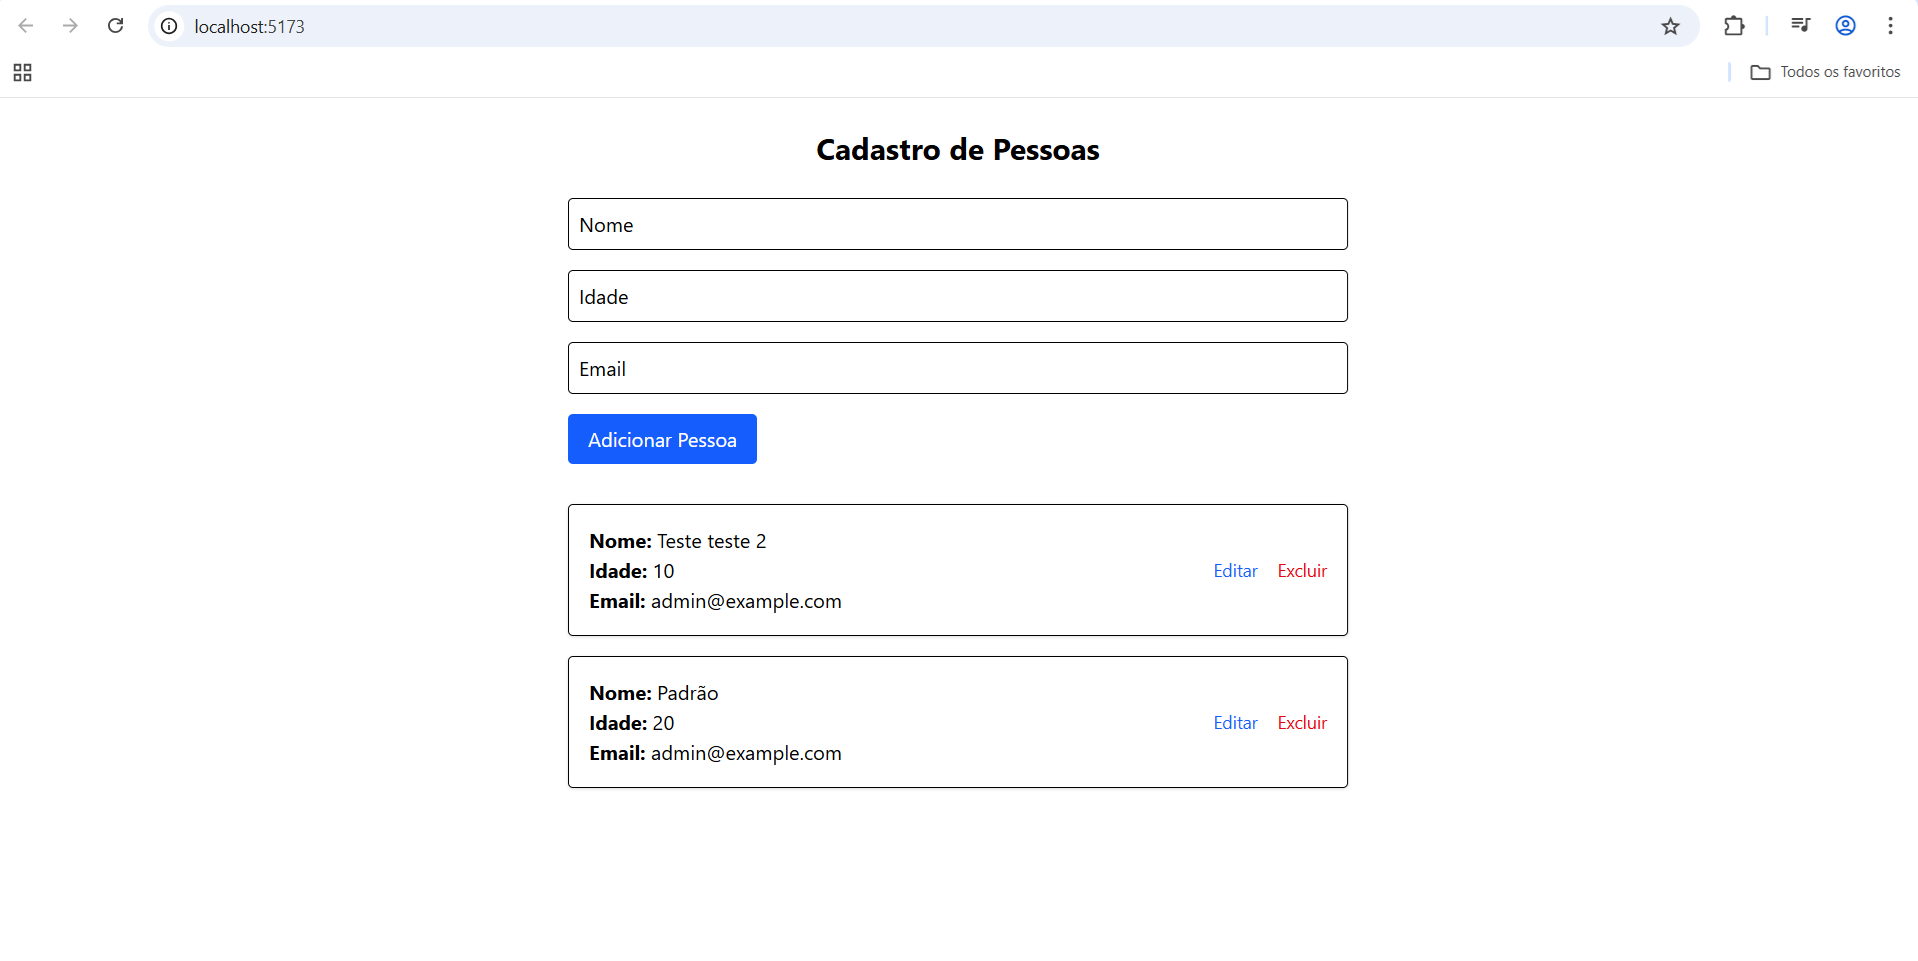
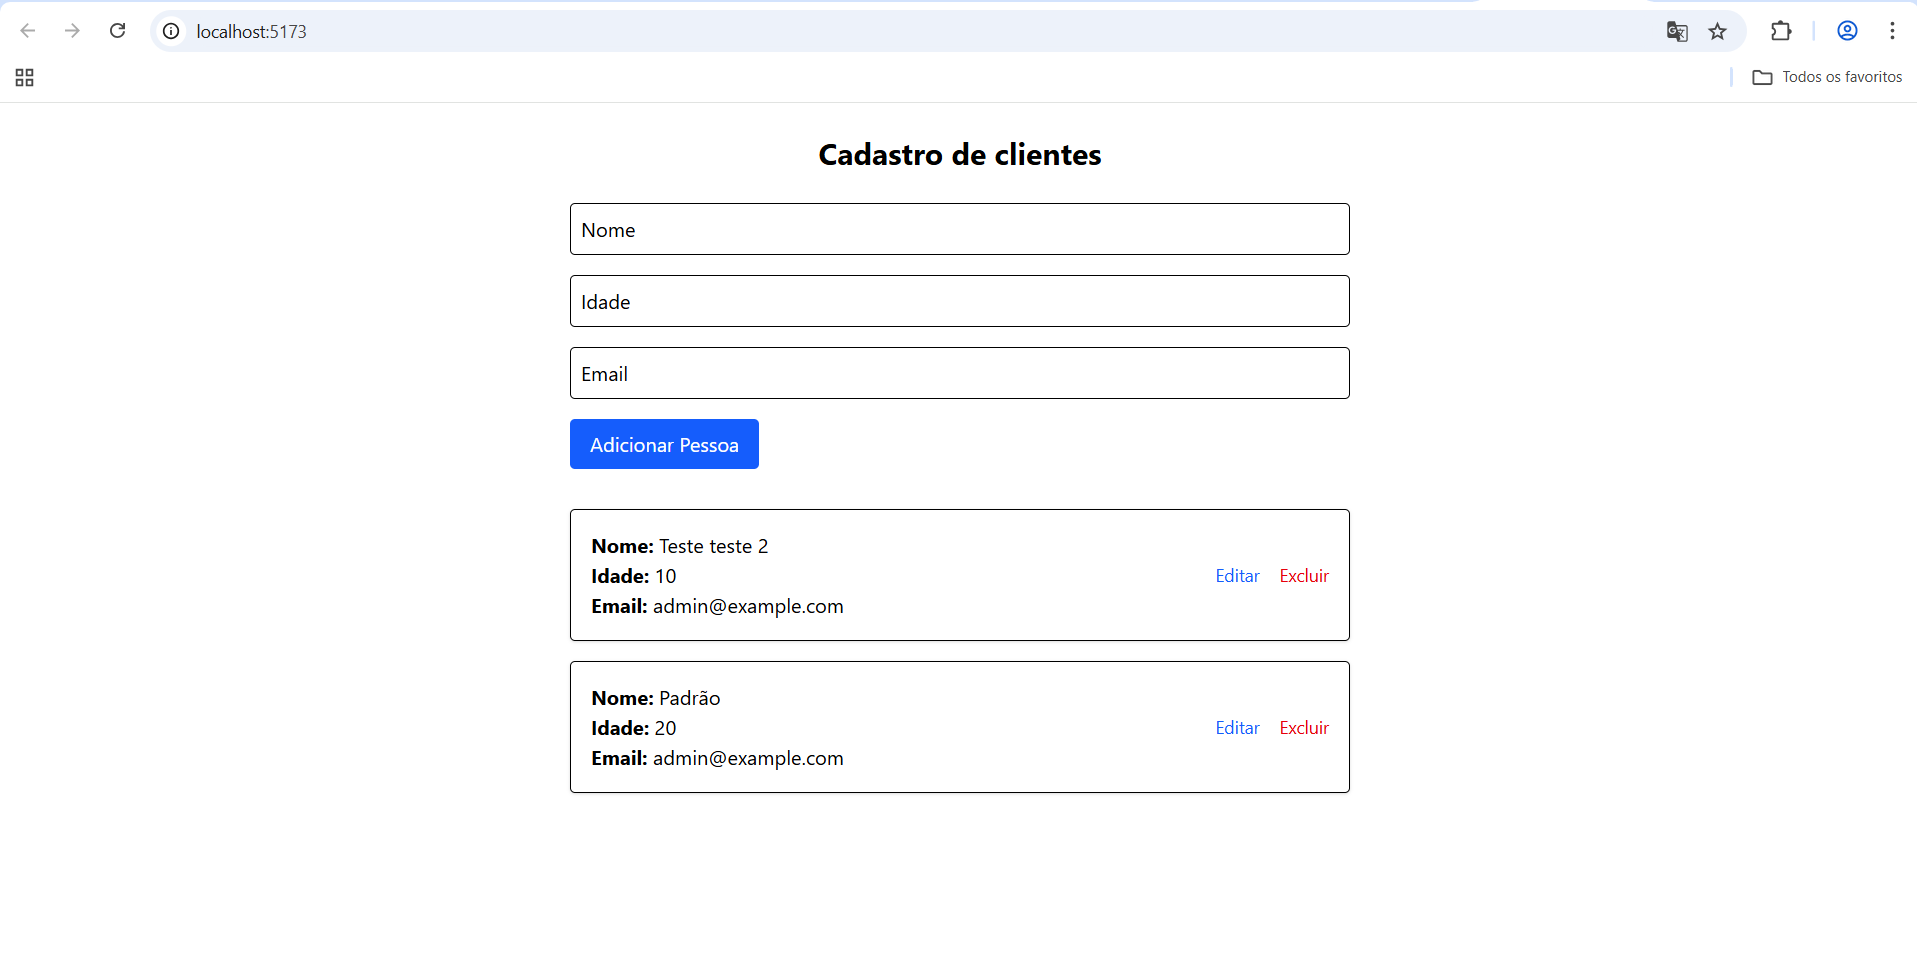
Atualizações de cabeçalho

diff --git a/src/App.tsx b/src/App.tsx
@@ -91,7 +91,7 @@ function App() {
 
   return (
     <div className="max-w-2xl mx-auto p-6">
-      <h1 className="text-2xl font-bold mb-6 text-center">Cadastro de Pessoas</h1>
+      <h1 className="text-2xl font-bold mb-6 text-center">Cadastro de clientes</h1>
 
       {/* Formulário */}
       <form onSubmit={handleSubmit} className="mb-8 space-y-4">
